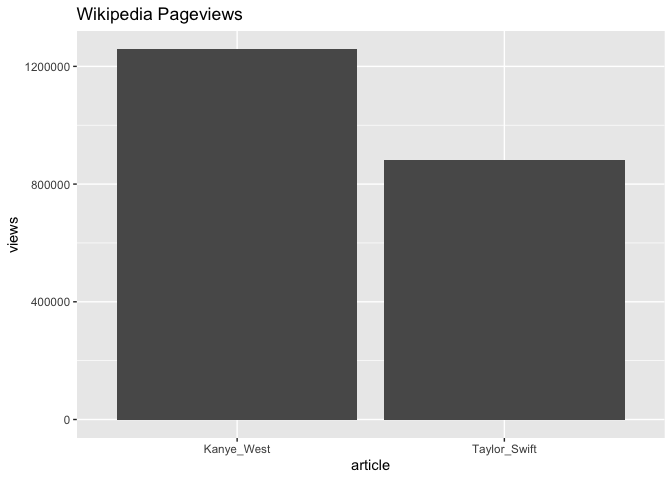
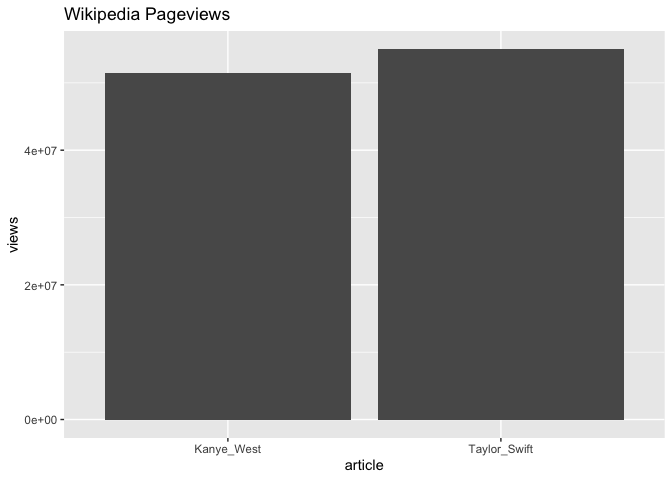
Update default Wikipedia dates

diff --git a/README.md b/README.md
@@ -69,13 +69,22 @@ visualize_spotify() %>%
 ### Compare Wikipedia data
 
 ``` r
-get_pageviews_raw(granularity = "monthly")
+get_pageviews_raw(granularity = "monthly") %>% 
+  head()
 #>     project language      article     access      agent granularity       date
-#> 1 wikipedia       en Taylor_Swift all-access all-agents     monthly 2022-12-01
-#> 2 wikipedia       en   Kanye_West all-access all-agents     monthly 2022-12-01
-#>     views
-#> 1  880978
-#> 2 1257622
+#> 1 wikipedia       en Taylor_Swift all-access all-agents     monthly 2015-10-01
+#> 2 wikipedia       en Taylor_Swift all-access all-agents     monthly 2015-11-01
+#> 3 wikipedia       en Taylor_Swift all-access all-agents     monthly 2015-12-01
+#> 4 wikipedia       en Taylor_Swift all-access all-agents     monthly 2016-01-01
+#> 5 wikipedia       en Taylor_Swift all-access all-agents     monthly 2016-02-01
+#> 6 wikipedia       en Taylor_Swift all-access all-agents     monthly 2016-03-01
+#>    views
+#> 1 736505
+#> 2 657281
+#> 3 719577
+#> 4 623515
+#> 5 875317
+#> 6 552923
 
 visualize_pageviews()
 ```
